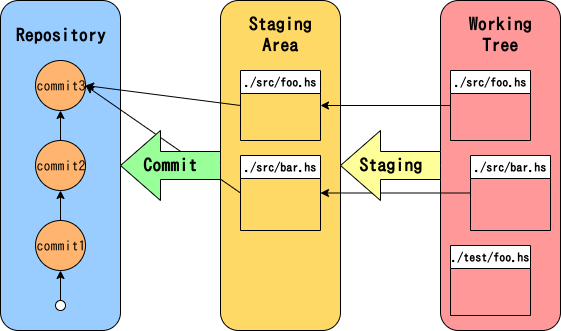
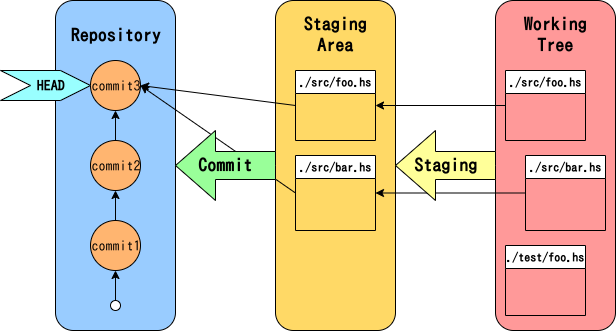
[introduction-to-git] add about HEAD into basics

diff --git a/introduction-to-git/basics.md b/introduction-to-git/basics.md
@@ -77,5 +77,11 @@ Gitは分散型なので, リモートリポジトリを直接は編集しませ
 
 ファイルの変更差分は, ワーキングツリー(つまり現在編集しているファイル)からステージング領域へ置かれ, 最終的にリポジトリにコミットとして保存されます.
 
+## ヘッド
+
+ヘッドは現在編集している履歴を指し示します.
+
+1つ前の履歴に戻ってファイルを編集し直す場合などでは, リポジトリは変化しませんがヘッドの位置が変化します.
+
 
 ## 全体の流れ (ローカル-リモート間)
